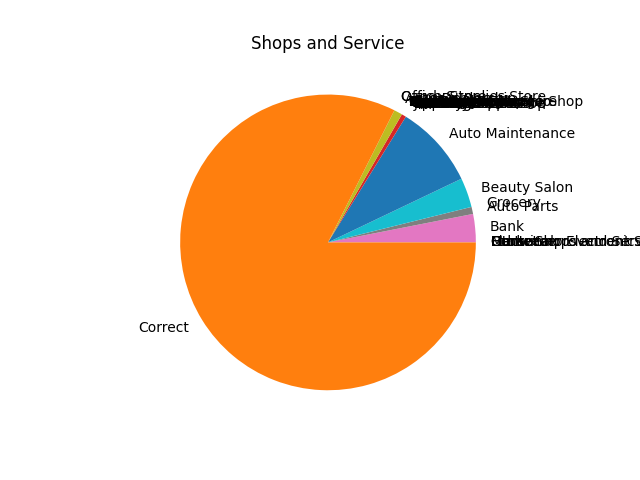
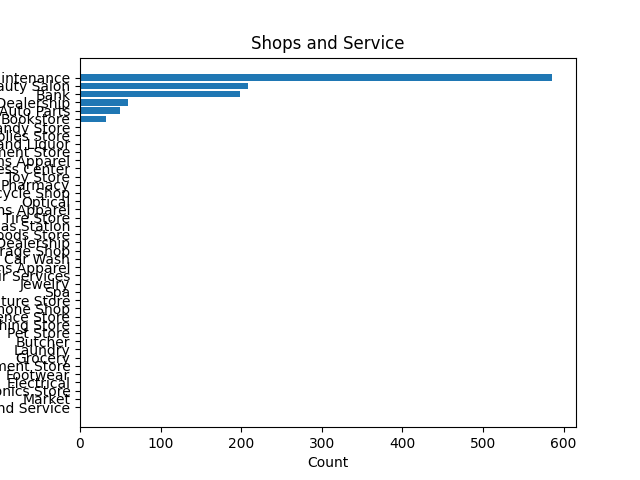
use bar graphs

diff --git a/report.py b/report.py
@@ -35,19 +35,24 @@ def build_markdown(filepath):
 
 def build_individual_plot(data:dict,title:str):
     report_dict = dict.fromkeys(data.keys(),0)
-    report_dict["Correct"] = 0
+    # report_dict["Correct"] = 0
     fig,ax = plt.subplots()
     for k,v in data.items():
         try:
-            report_dict["Correct"] += v["correct"]
+            # report_dict["Correct"] += v["correct"]
             report_dict[k] += v["incorrect"]
         except TypeError:
             pass
     try:
         filepath = os.path.join(BASE_REPORT_PATH,title,"report")
         for_md = os.path.join(BASE_REPORT_PATH,title)
-        ax.pie(report_dict.values(),labels=report_dict.keys())
+        axes = sorted([(k,v) for k,v in report_dict.items()], key=lambda x:x[1])
+        x_axis = [elem[1] for elem in axes]
+        y_axis = [elem[0] for elem in axes]
+        ax.barh(y_axis,x_axis)
         ax.set_title(title)
+        ax.set_ylabel("Subcategory")
+        ax.set_xlabel("Count")
         fig.savefig(filepath)
         plt.close(fig)
         build_markdown(for_md)

diff --git a/README.md b/README.md
@@ -9,7 +9,7 @@
 3. 저장된 `common_words`를 번역한다.
 4. 선정된 `common_words`가 POI 명칭에 있다면 번역이 올바르게 되었는지 확인한다.
 5. 번역이 틀리다면 `report`에 저장한다
-6. `subcategory`의 총 POI 개수 중 몇 개가 틀리게 번역되었는지 확인하고 오류 백분율을 계산한다.
+6. `subcategory`의 총 POI 개수 중 몇 개가 잘못 번역되었는지 확인하고 오류 백분율을 계산한다.
 
 ## TODO
 - [x] 보고용 차트 만들기

diff --git a/reports/Etc/README.md b/reports/Etc/README.md
@@ -1,0 +1,1 @@
+![image](./report.png)

diff --git a/reports/Residence/README.md b/reports/Residence/README.md
@@ -1,0 +1,1 @@
+![image](./report.png)

diff --git a/reports/Water Features/README.md b/reports/Water Features/README.md
@@ -1,0 +1,1 @@
+![image](./report.png)
